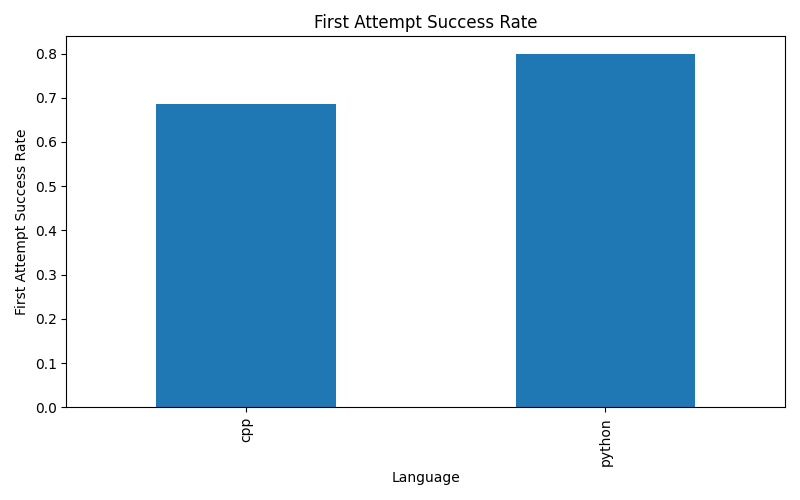
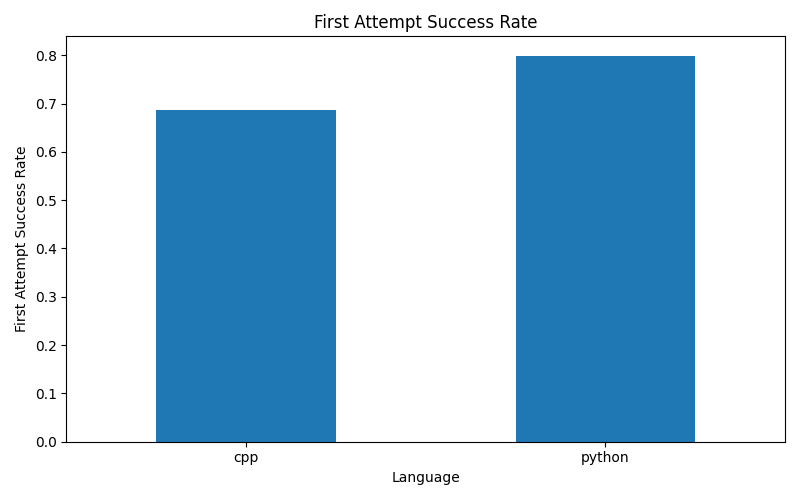
refactored format for creating graphs and more graphs

diff --git a/generated_code/unittest_run_all.py b/generated_code/unittest_run_all.py
@@ -721,150 +721,133 @@ def save_current_figure(filename: str) -> None:
     plt.savefig(GRAPH_OUTPUT_DIR / filename)
     plt.close()
 
-def generate_graph_report(attempt_df: pd.DataFrame, problems_df: pd.DataFrame) -> None:
-    """
-    Generates graphical analysis reports and saves them to disk.
-    """
-
+def save_current_figure(filename: str) -> None:
+    """Saves the current matplotlib figure and closes it."""
     GRAPH_OUTPUT_DIR.mkdir(parents=True, exist_ok=True)
+    plt.tight_layout()
+    plt.savefig(GRAPH_OUTPUT_DIR / filename)
+    plt.close()
+# --------------------------------------------------
+# Individual Plotting Functions
+# --------------------------------------------------
 
-    # --------------------------------------------------
-    # Python vs C++ Success Rate
-    # --------------------------------------------------
-
-    language_success = (
-        problems_df
-        .groupby("language")["eventually_passed"]
-        .mean()
-        .sort_index()
+def plot_difficulty_vs_language_failures(attempt_df: pd.DataFrame):
+    """
+    Plots failures by difficulty, split by language and stacked by error type.
+    """
+    # Group by difficulty, language, and error type
+    data = (
+        attempt_df[attempt_df["result"] == "failed"]
+        .groupby(["difficulty", "language", "error_type"])
+        .size()
+        .unstack(fill_value=0)
     )
+    
+    plt.figure(figsize=(12, 7))
+    # kind='bar' with stacked=True works on multi-index DataFrames
+    data.plot(kind="bar", stacked=True, ax=plt.gca())
+    
+    plt.ylabel("Failure Count")
+    plt.xlabel("Difficulty & Language")
+    plt.title("Difficulty vs Failure Type (Python vs C++)")
+    plt.legend(bbox_to_anchor=(1.05, 1), loc='upper left')
+    plt.tight_layout()
+    save_current_figure("difficulty_language_failure_comparison.png")
 
+def plot_language_success(problems_df: pd.DataFrame):
+    data = problems_df.groupby("language")["eventually_passed"].mean().sort_index()
     plt.figure(figsize=(8, 5))
-
-    language_success.plot(kind="bar")
-
+    data.plot(kind="bar", rot=0)
     plt.ylabel("Success Rate")
     plt.xlabel("Language")
     plt.title("Python vs C++ Success Rate")
-
     save_current_figure("language_success_rate.png")
 
-    # --------------------------------------------------
-    # First Attempt Success Rate
-    # --------------------------------------------------
-
-    first_try_success = (
-        problems_df
-        .groupby("language")["first_try_success"]
-        .mean()
-        .sort_index()
-    )
-
+def plot_first_attempt_success(problems_df: pd.DataFrame):
+    data = problems_df.groupby("language")["first_try_success"].mean().sort_index()
     plt.figure(figsize=(8, 5))
-
-    first_try_success.plot(kind="bar")
-
+    data.plot(kind="bar", rot=0)
     plt.ylabel("First Attempt Success Rate")
     plt.xlabel("Language")
     plt.title("First Attempt Success Rate")
-
     save_current_figure("first_attempt_success_rate.png")
 
-    # --------------------------------------------------
-    # Difficulty vs Failure Type
-    # --------------------------------------------------
-
-    difficulty_failures = (
-        attempt_df[attempt_df["result"] == "failed"]
-        .groupby(["difficulty", "error_type"])
-        .size()
-        .unstack(fill_value=0)
-    )
-
+def plot_difficulty_vs_failures(attempt_df: pd.DataFrame):
+    data = attempt_df[attempt_df["result"] == "failed"].groupby(["difficulty", "error_type"]).size().unstack(fill_value=0)
     plt.figure(figsize=(10, 6))
-
-    difficulty_failures.plot(kind="bar", stacked=True)
-
+    data.plot(kind="bar", stacked=True)
     plt.ylabel("Failure Count")
     plt.xlabel("Difficulty")
     plt.title("Difficulty vs Failure Type")
-
     save_current_figure("difficulty_vs_failure_type.png")
 
-    # --------------------------------------------------
-    # Tag vs Success Rate
-    # --------------------------------------------------
-
-    tag_success = (
-        problems_df
-        .groupby("tags")["eventually_passed"]
-        .mean()
-        .sort_values(ascending=False)
-    )
-
+def plot_tag_success(problems_df: pd.DataFrame):
+    data = problems_df.groupby("tags")["eventually_passed"].mean().sort_values(ascending=False)
     plt.figure(figsize=(12, 6))
-
-    tag_success.plot(kind="bar")
-
+    data.plot(kind="bar")
     plt.ylabel("Success Rate")
     plt.xlabel("Tag")
     plt.title("Tag vs Success Rate")
-
     save_current_figure("tag_success_rate.png")
-    
-    # --------------------------------------------------
-    # NEW: Error Type Distribution (Python vs C++)
-    # --------------------------------------------------
-    # This highlights the "Type" of friction each language creates.
-    error_dist = (
-        attempt_df[attempt_df["result"] == "failed"]
-        .groupby(["language", "error_type"])
-        .size()
-        .unstack(fill_value=0)
-    )
-    
+
+def plot_error_comparison(attempt_df: pd.DataFrame):
+    data = attempt_df[attempt_df["result"] == "failed"].groupby(["language", "error_type"]).size().unstack(fill_value=0)
     plt.figure(figsize=(10, 6))
-    error_dist.plot(kind="bar", stacked=True)
+    data.plot(kind="bar", stacked=True)
     plt.ylabel("Number of Failures")
     plt.title("Error Types: Python vs C++")
     plt.legend(bbox_to_anchor=(1.05, 1), loc='upper left')
-    plt.tight_layout()
     save_current_figure("error_type_comparison.png")
 
-    # --------------------------------------------------
-    # NEW: Average Attempts per Difficulty (Python vs C++)
-    # --------------------------------------------------
-    # Are C++ solutions harder to finish?
-    avg_attempts = (
-        problems_df.groupby(["language", "difficulty"])["total_attempts"]
-        .mean()
-        .unstack()
-    )
-    
+def plot_success_by_difficulty(problems_df: pd.DataFrame):
+    data = problems_df.groupby(["language", "difficulty"])["eventually_passed"].mean().unstack()
     plt.figure(figsize=(10, 6))
-    avg_attempts.plot(kind="bar", rot=0)
-    plt.ylabel("Avg Attempts to Finish")
-    plt.title("Average Attempts required by Difficulty & Language")
-    save_current_figure("avg_attempts_difficulty.png")
-
-    # --------------------------------------------------
-    # NEW: Pass Rate by Difficulty & Language
-    # --------------------------------------------------
-    # Compare success probability directly
-    success_by_diff = (
-        problems_df.groupby(["language", "difficulty"])["eventually_passed"]
-        .mean()
-        .unstack()
-    )
-    
-    plt.figure(figsize=(10, 6))
-    success_by_diff.plot(kind="bar", rot=0)
+    data.plot(kind="bar", rot=0)
     plt.ylabel("Success Rate")
     plt.title("Success Rate by Difficulty (Python vs C++)")
     plt.ylim(0, 1.1)
     save_current_figure("success_rate_by_difficulty.png")
 
-    print(f"Saved graphs to: {GRAPH_OUTPUT_DIR}")
+def plot_learning_curve(attempt_df: pd.DataFrame):
+    # Ensure total_tests exists (merge if necessary)
+    df = attempt_df.copy()
+    if 'pass_ratio' not in df.columns:
+        df['pass_ratio'] = df['passed_tests'] / df['total_tests']
+    
+    data = df.groupby(['language', 'attempt_number'])['pass_ratio'].mean().unstack(0)
+    plt.figure(figsize=(10, 6))
+    data.plot(kind='line', marker='o')
+    plt.title("Learning Curve: Test Pass Ratio by Attempt")
+    plt.ylabel("Avg % of Tests Passed")
+    plt.xticks([1, 2, 3])
+    save_current_figure("learning_curve.png")
+
+# --------------------------------------------------
+# Main Orchestrator
+# --------------------------------------------------
+
+def generate_graph_report(attempt_df: pd.DataFrame, problems_df: pd.DataFrame) -> None:
+    """
+    Generates graphical analysis reports and saves them to disk.
+    """
+    # High-level overview
+    plot_language_success(problems_df)
+    plot_first_attempt_success(problems_df)
+    
+    # Granular analysis
+    plot_difficulty_vs_failures(attempt_df)
+    plot_difficulty_vs_language_failures(attempt_df)
+    plot_tag_success(problems_df)
+    
+    # Python vs C++ comparison
+    plot_error_comparison(attempt_df)
+    plot_success_by_difficulty(problems_df)
+    
+    # Attempt-specific insights
+    if 'total_tests' in attempt_df.columns:
+        plot_learning_curve(attempt_df)
+
+    print(f"All reports saved to: {GRAPH_OUTPUT_DIR}")
 
 def run_and_store_unittests_separately() -> int:
     """
